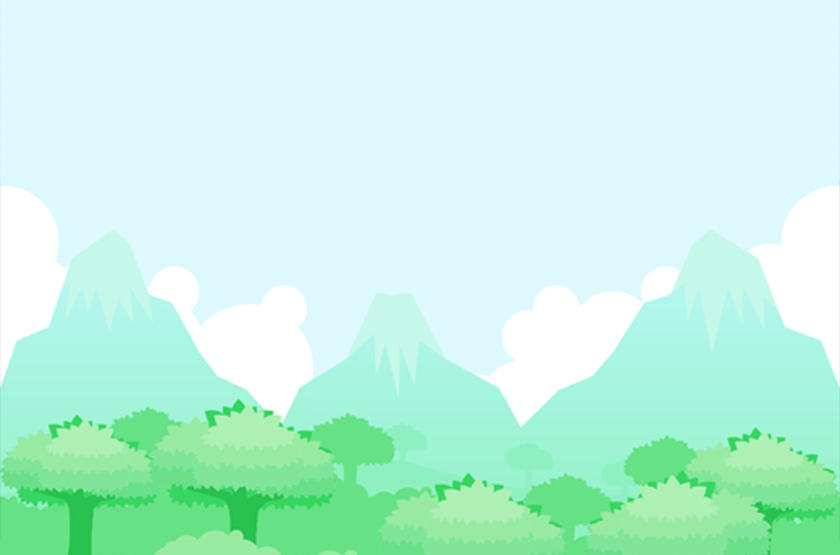
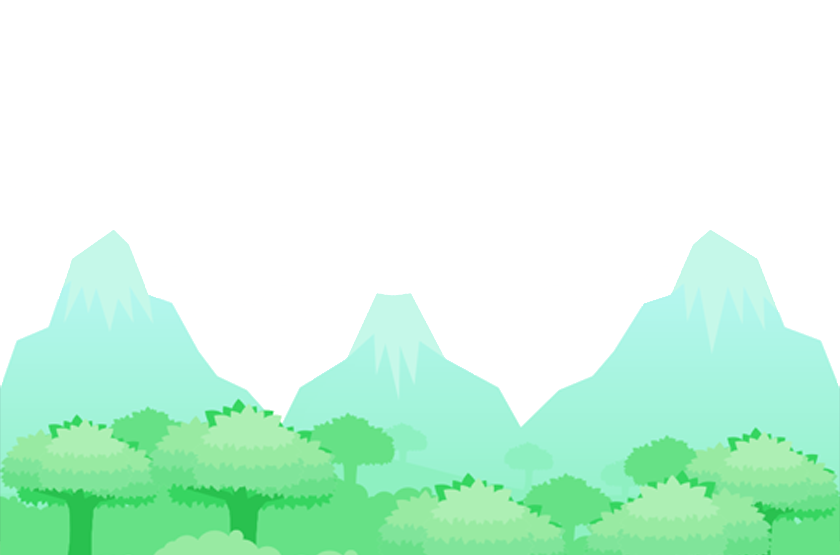
transparent background

diff --git a/sketch.js b/sketch.js
@@ -226,7 +226,7 @@ function setup() {
 
 function draw() {
   if (!gameOver) {
-    background(200);
+    background(300);
     runner.depth = 4;
     runner.velocity.y += gravity;
     runner.velocity.x = runnerSpeed;
